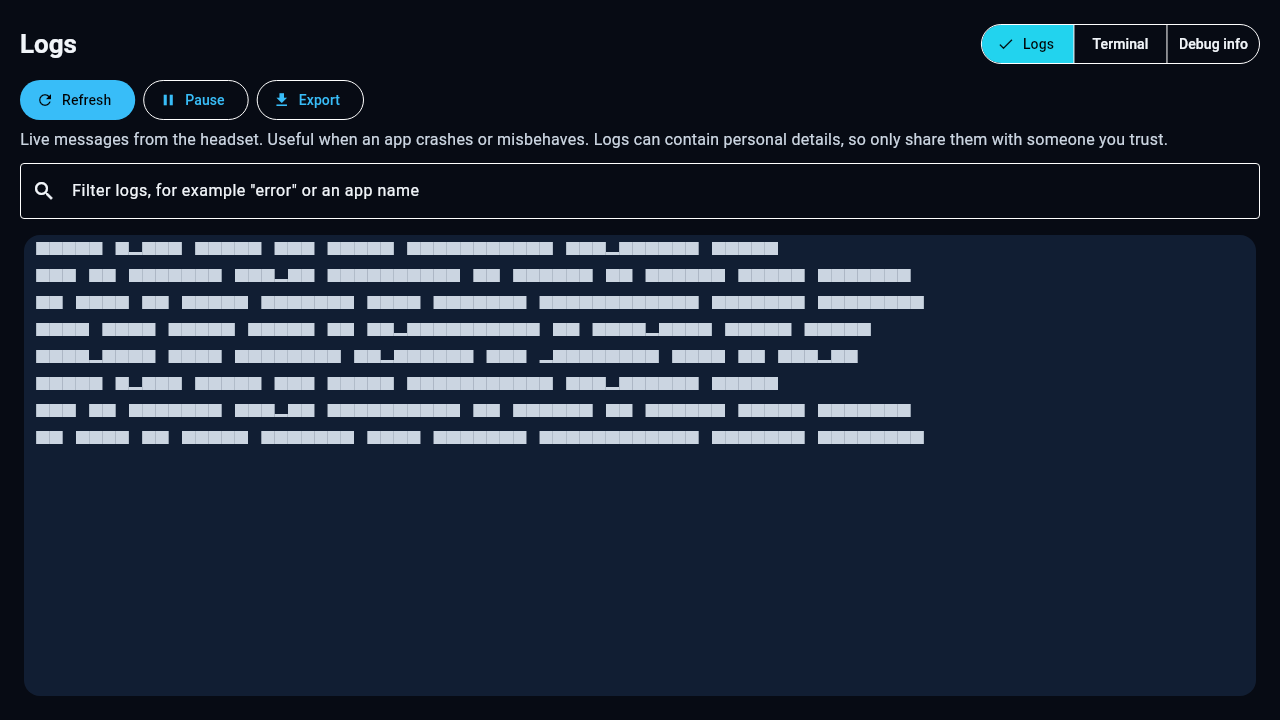
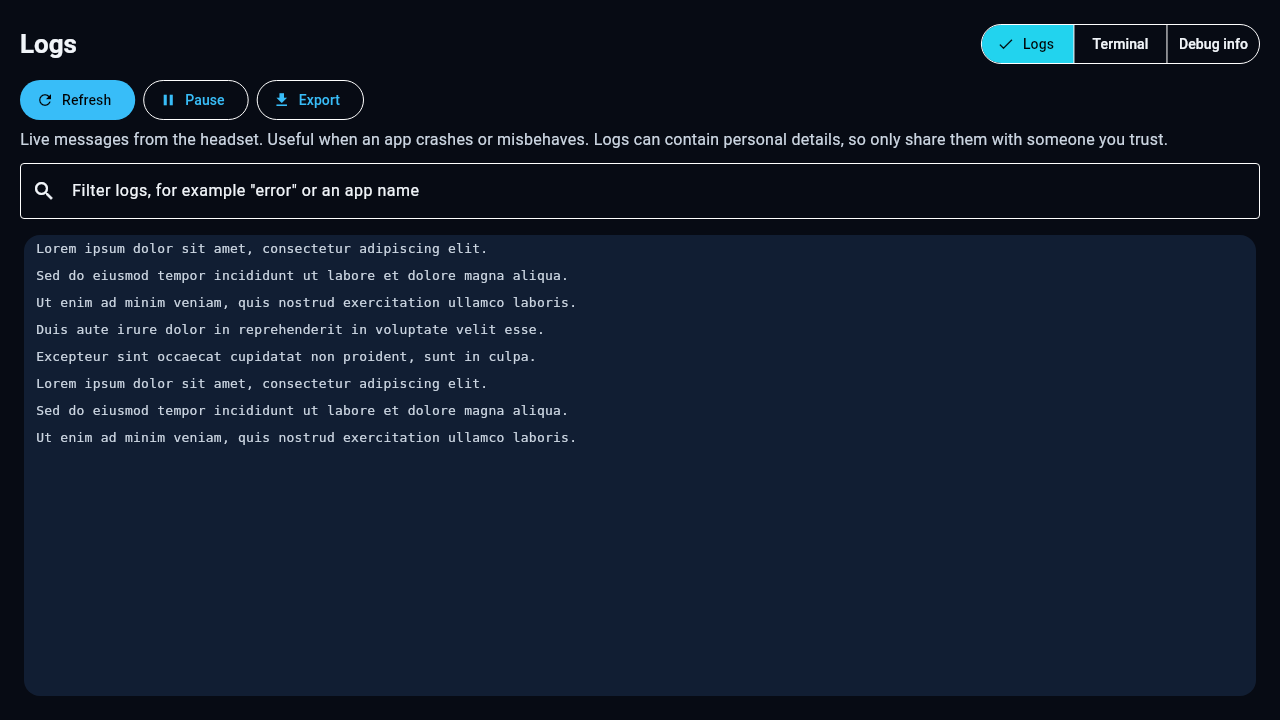
Screenshots: load a monospace font for Logs/Terminal goldens (was rendering as blocks)

Changed region(s): [[0.0312, 0.3361, 0.7188, 0.6417]]

diff --git a/flutter_app/test/widget/apps_screenshots_test.dart b/flutter_app/test/widget/apps_screenshots_test.dart
@@ -185,6 +185,16 @@ Future<void> _loadFonts() async {
         ..addFont(Future<ByteData>.value(ByteData.view(bytes.buffer)));
       await loader.load();
     }
+    // The Logs/Terminal screens use fontFamily 'monospace'. Without a
+    // monospace font loaded the log lines render as solid blocks.
+    // DejaVu Sans Mono ships with the system fonts.
+    final monoFile = File('/usr/share/fonts/truetype/dejavu/DejaVuSansMono.ttf');
+    if (monoFile.existsSync()) {
+      final bytes = await monoFile.readAsBytes();
+      final loader = FontLoader('monospace')
+        ..addFont(Future<ByteData>.value(ByteData.view(bytes.buffer)));
+      await loader.load();
+    }
     return;
   }
 }
